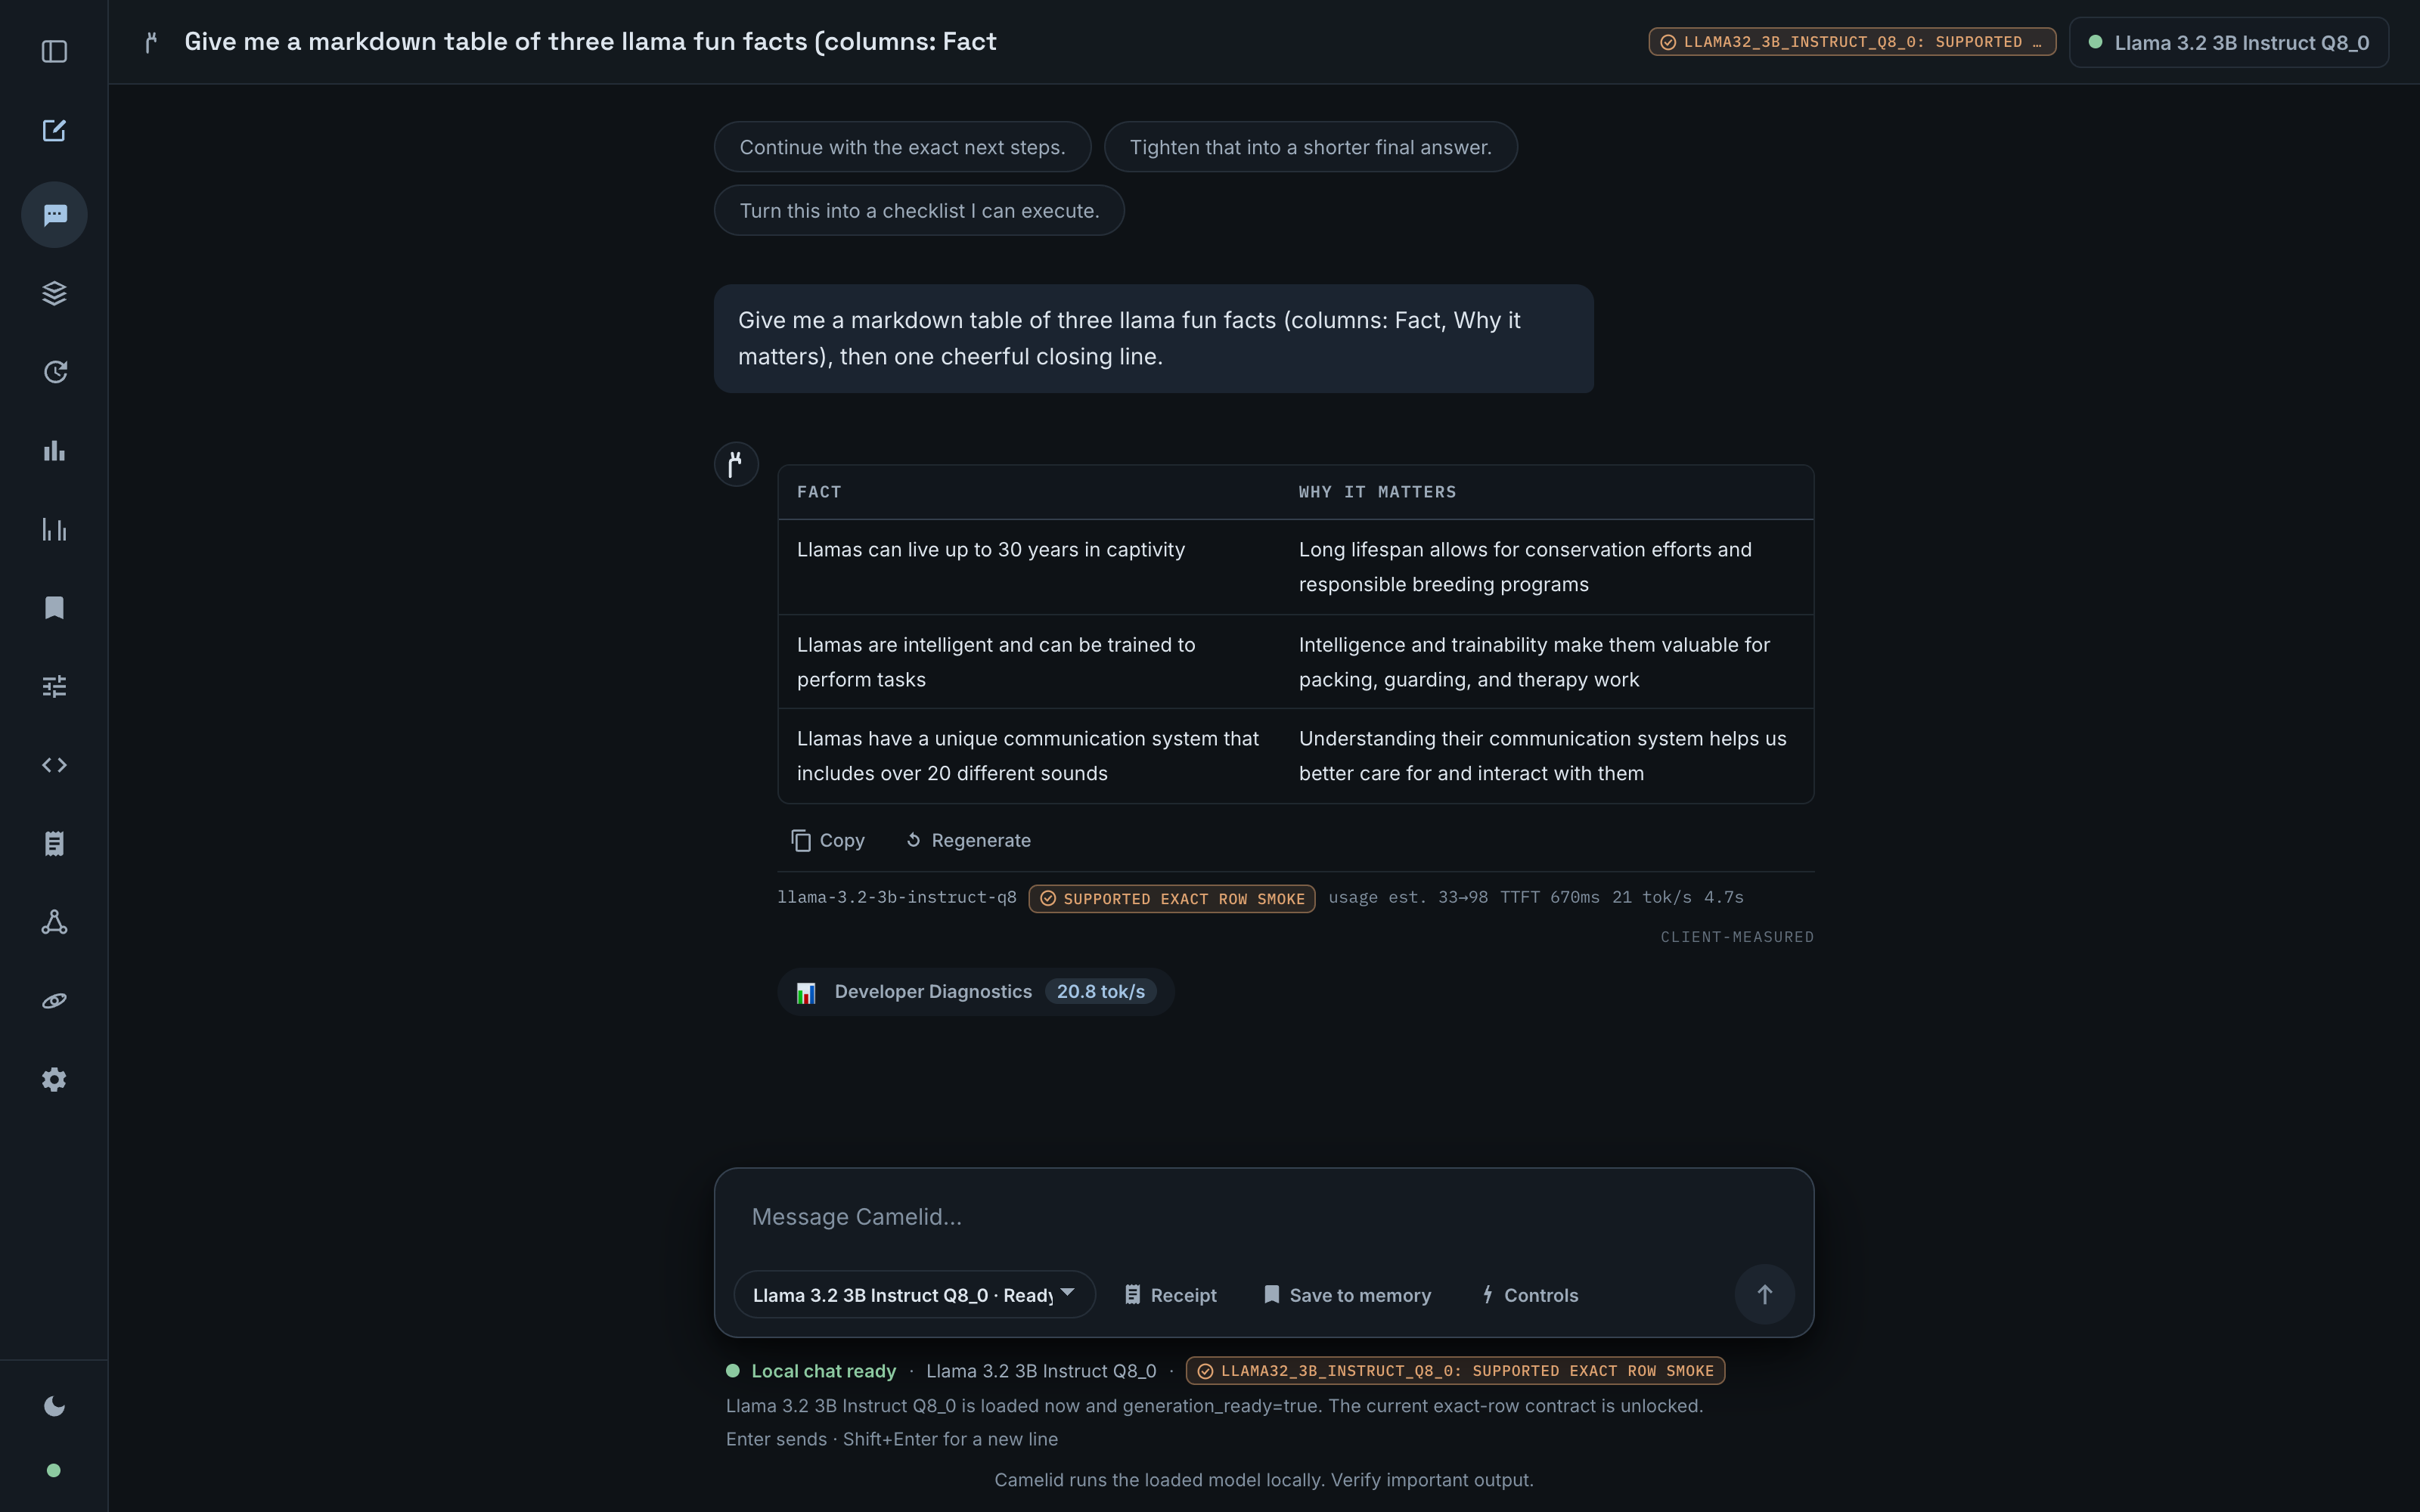
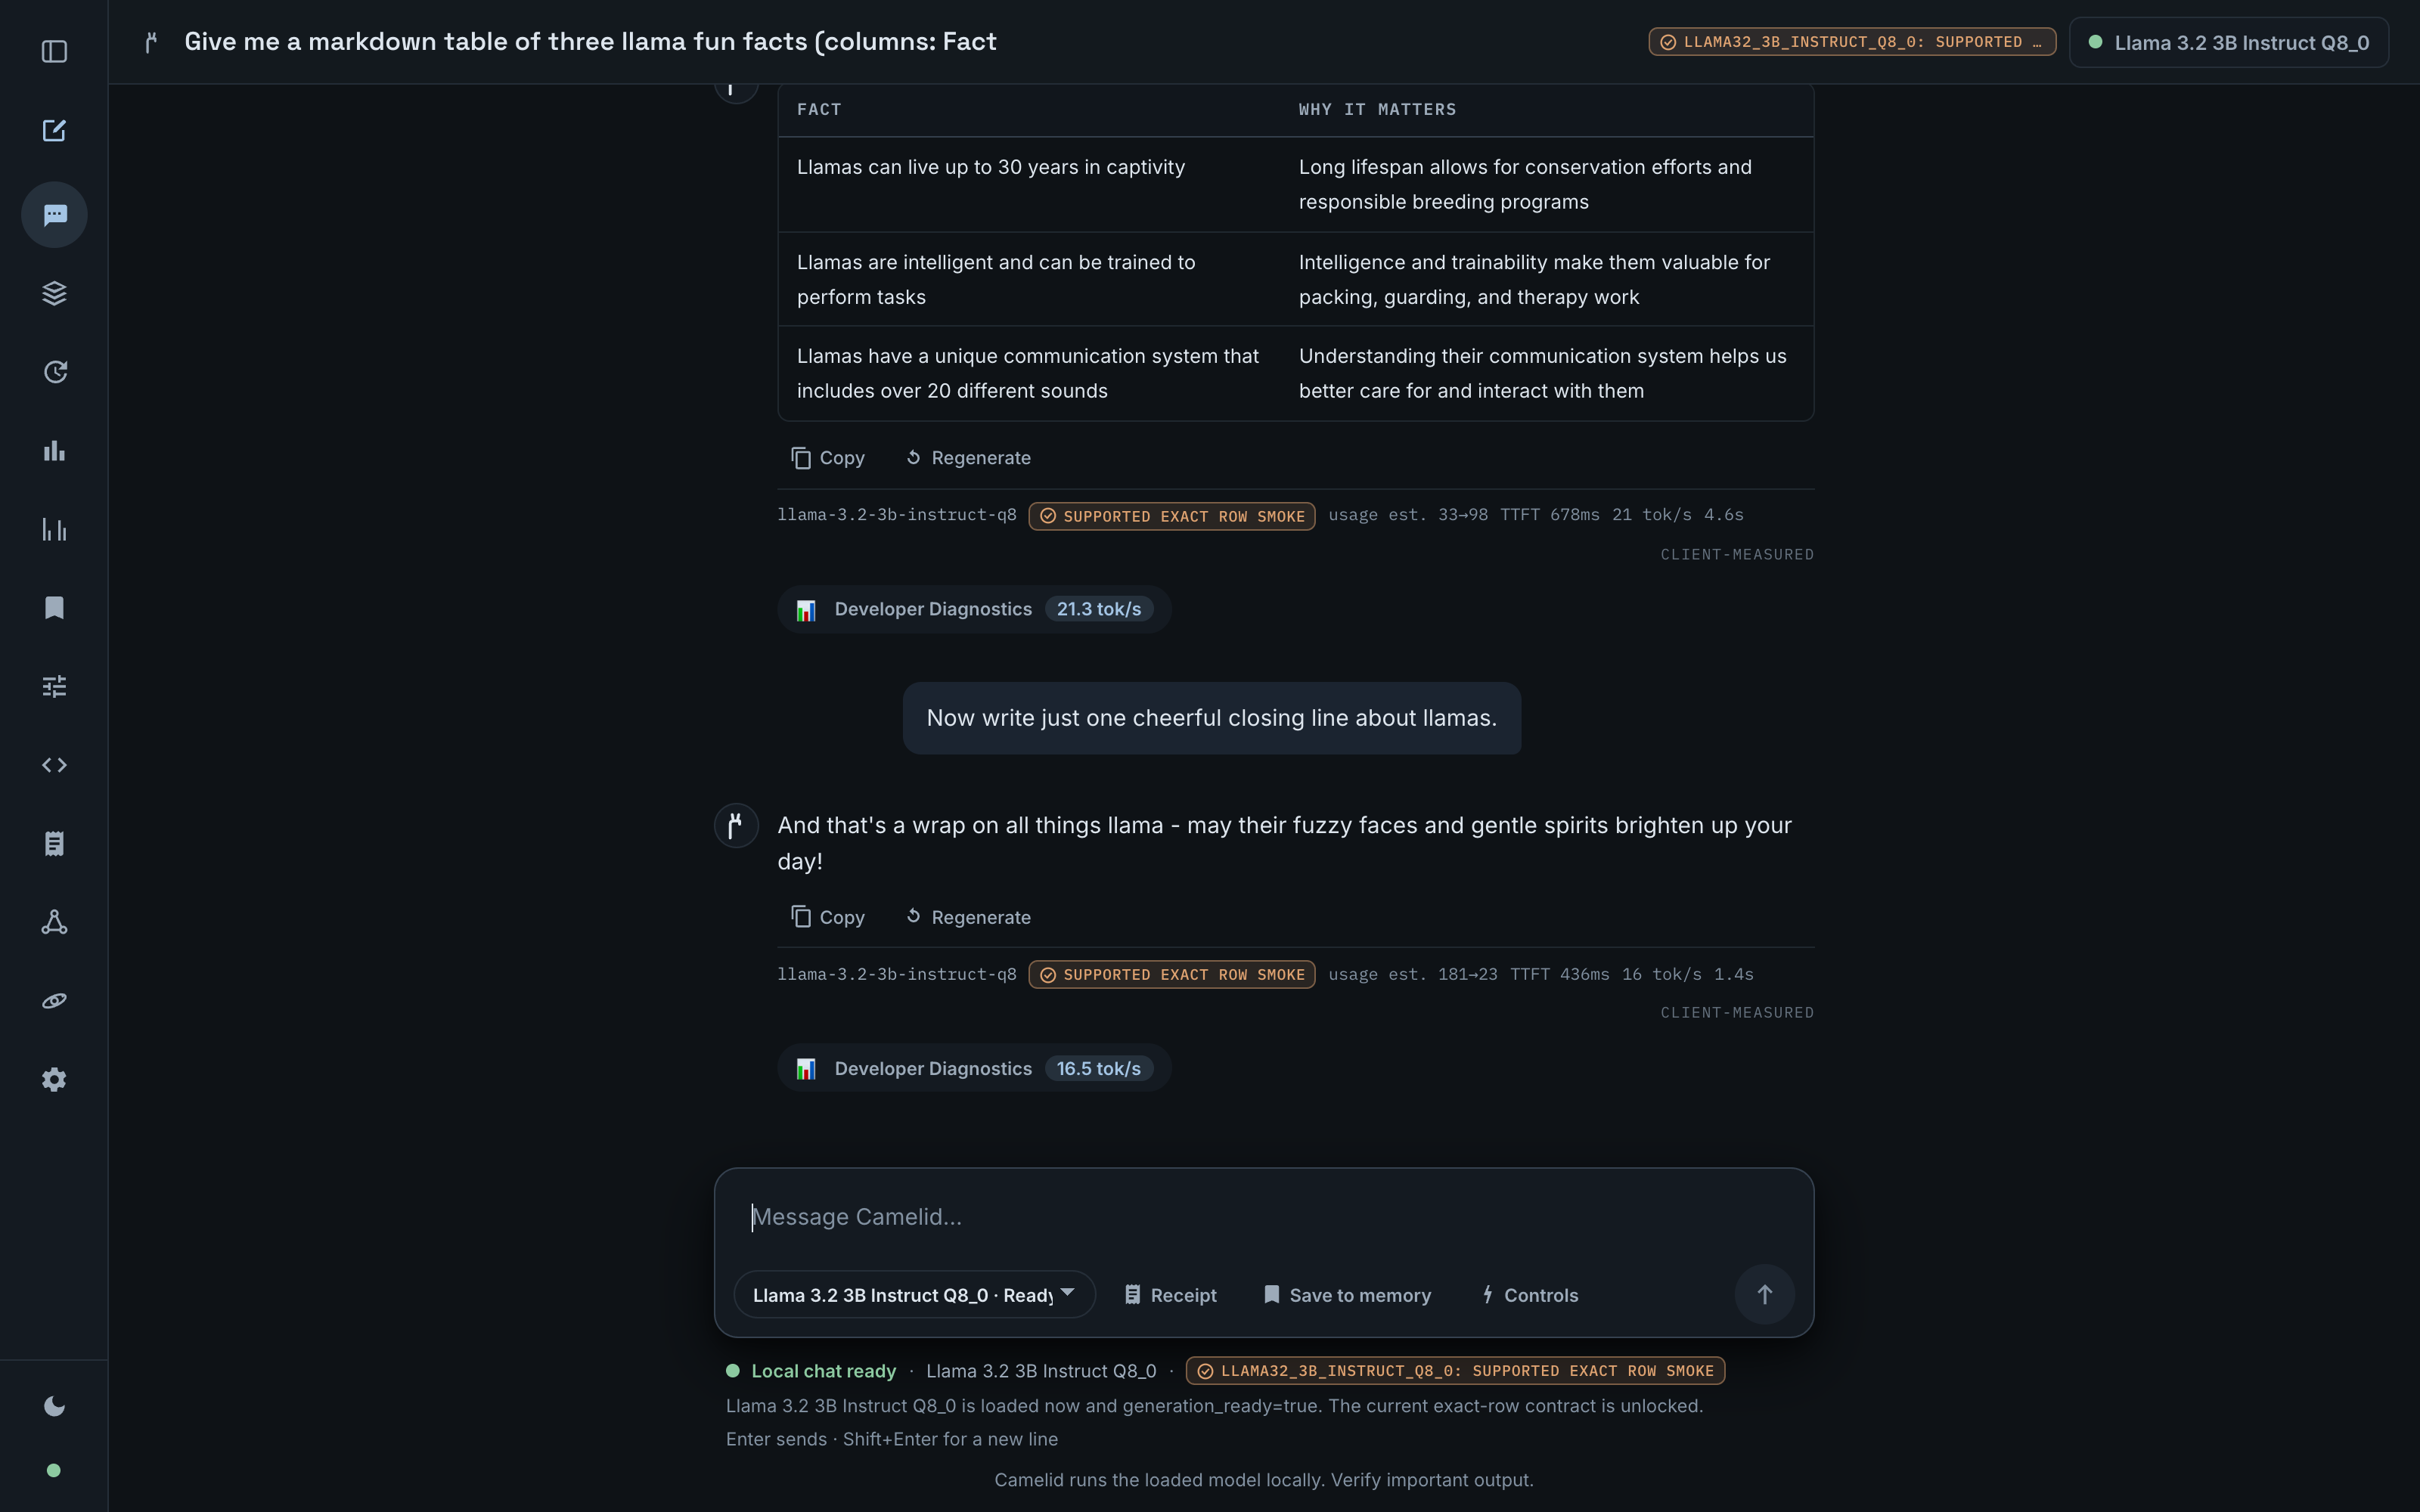
mark: happy head-bob during streaming + README screenshot retake with the cheerful closing line
- streaming state now layers a continuous head-bob groove (CSS keyframes,
  transform-origin at the neck) over the token-driven ear flicks — the groove
  reads as having a good time, the ear rhythm stays the real cadence;
  reduced-motion still renders static
- README screenshot retake: the 3B deterministically ended generation at the
  table and never emitted the requested closing line in one turn (three prompt
  variants verified), so the shot is now a real two-turn conversation that ends
  on the model's own cheerful sign-off; closing-line presence DOM-verified
  before capture; sha guard updated with product approval

Changed region(s): [[0.3125, 0.31, 0.75, 0.713], [0.2812, 0.062, 0.7188, 0.31]]

diff --git a/frontend/src/styles/ui.css b/frontend/src/styles/ui.css
@@ -12,10 +12,23 @@
   0%, 100% { transform: scale(1); opacity: 0.7; }
   50% { transform: scale(1.07); opacity: 1; }
 }
-/* streaming: ears flick alternately, advanced by real token batches (data-step
-   flips per rAF-coalesced flush) — generation speed is visible as rhythm */
-.camelid-mark[data-state='streaming'][data-step='0'] .camelid-mark__ear--l { transform: rotate(-10deg); }
-.camelid-mark[data-state='streaming'][data-step='1'] .camelid-mark__ear--r { transform: rotate(10deg); }
+/* streaming: a happy head-bob groove (continuous) layered with ear flicks
+   advanced by real token batches (data-step flips per rAF-coalesced flush) —
+   the groove says "having a good time", the ear rhythm IS the real cadence */
+.camelid-mark[data-state='streaming'] {
+  animation: camelidMarkGroove 0.9s var(--ease-standard) infinite;
+  transform-origin: 45% 85%;
+}
+@keyframes camelidMarkGroove {
+  0%, 100% { transform: rotate(-6deg) translateY(0.4px); }
+  25% { transform: rotate(0deg) translateY(-0.9px); }
+  50% { transform: rotate(6deg) translateY(0.3px); }
+  75% { transform: rotate(0deg) translateY(-0.9px); }
+}
+.camelid-mark[data-state='streaming'][data-step='0'] .camelid-mark__ear--l { transform: rotate(-14deg); }
+.camelid-mark[data-state='streaming'][data-step='0'] .camelid-mark__ear--r { transform: rotate(4deg); }
+.camelid-mark[data-state='streaming'][data-step='1'] .camelid-mark__ear--r { transform: rotate(14deg); }
+.camelid-mark[data-state='streaming'][data-step='1'] .camelid-mark__ear--l { transform: rotate(-4deg); }
 .camelid-mark[data-state='settle'] .camelid-mark__ear { transform: none; transition-duration: 320ms; }
 @media (prefers-reduced-motion: reduce) {
   .camelid-mark, .camelid-mark__ear { animation: none !important; transition: none !important; transform: none !important; }